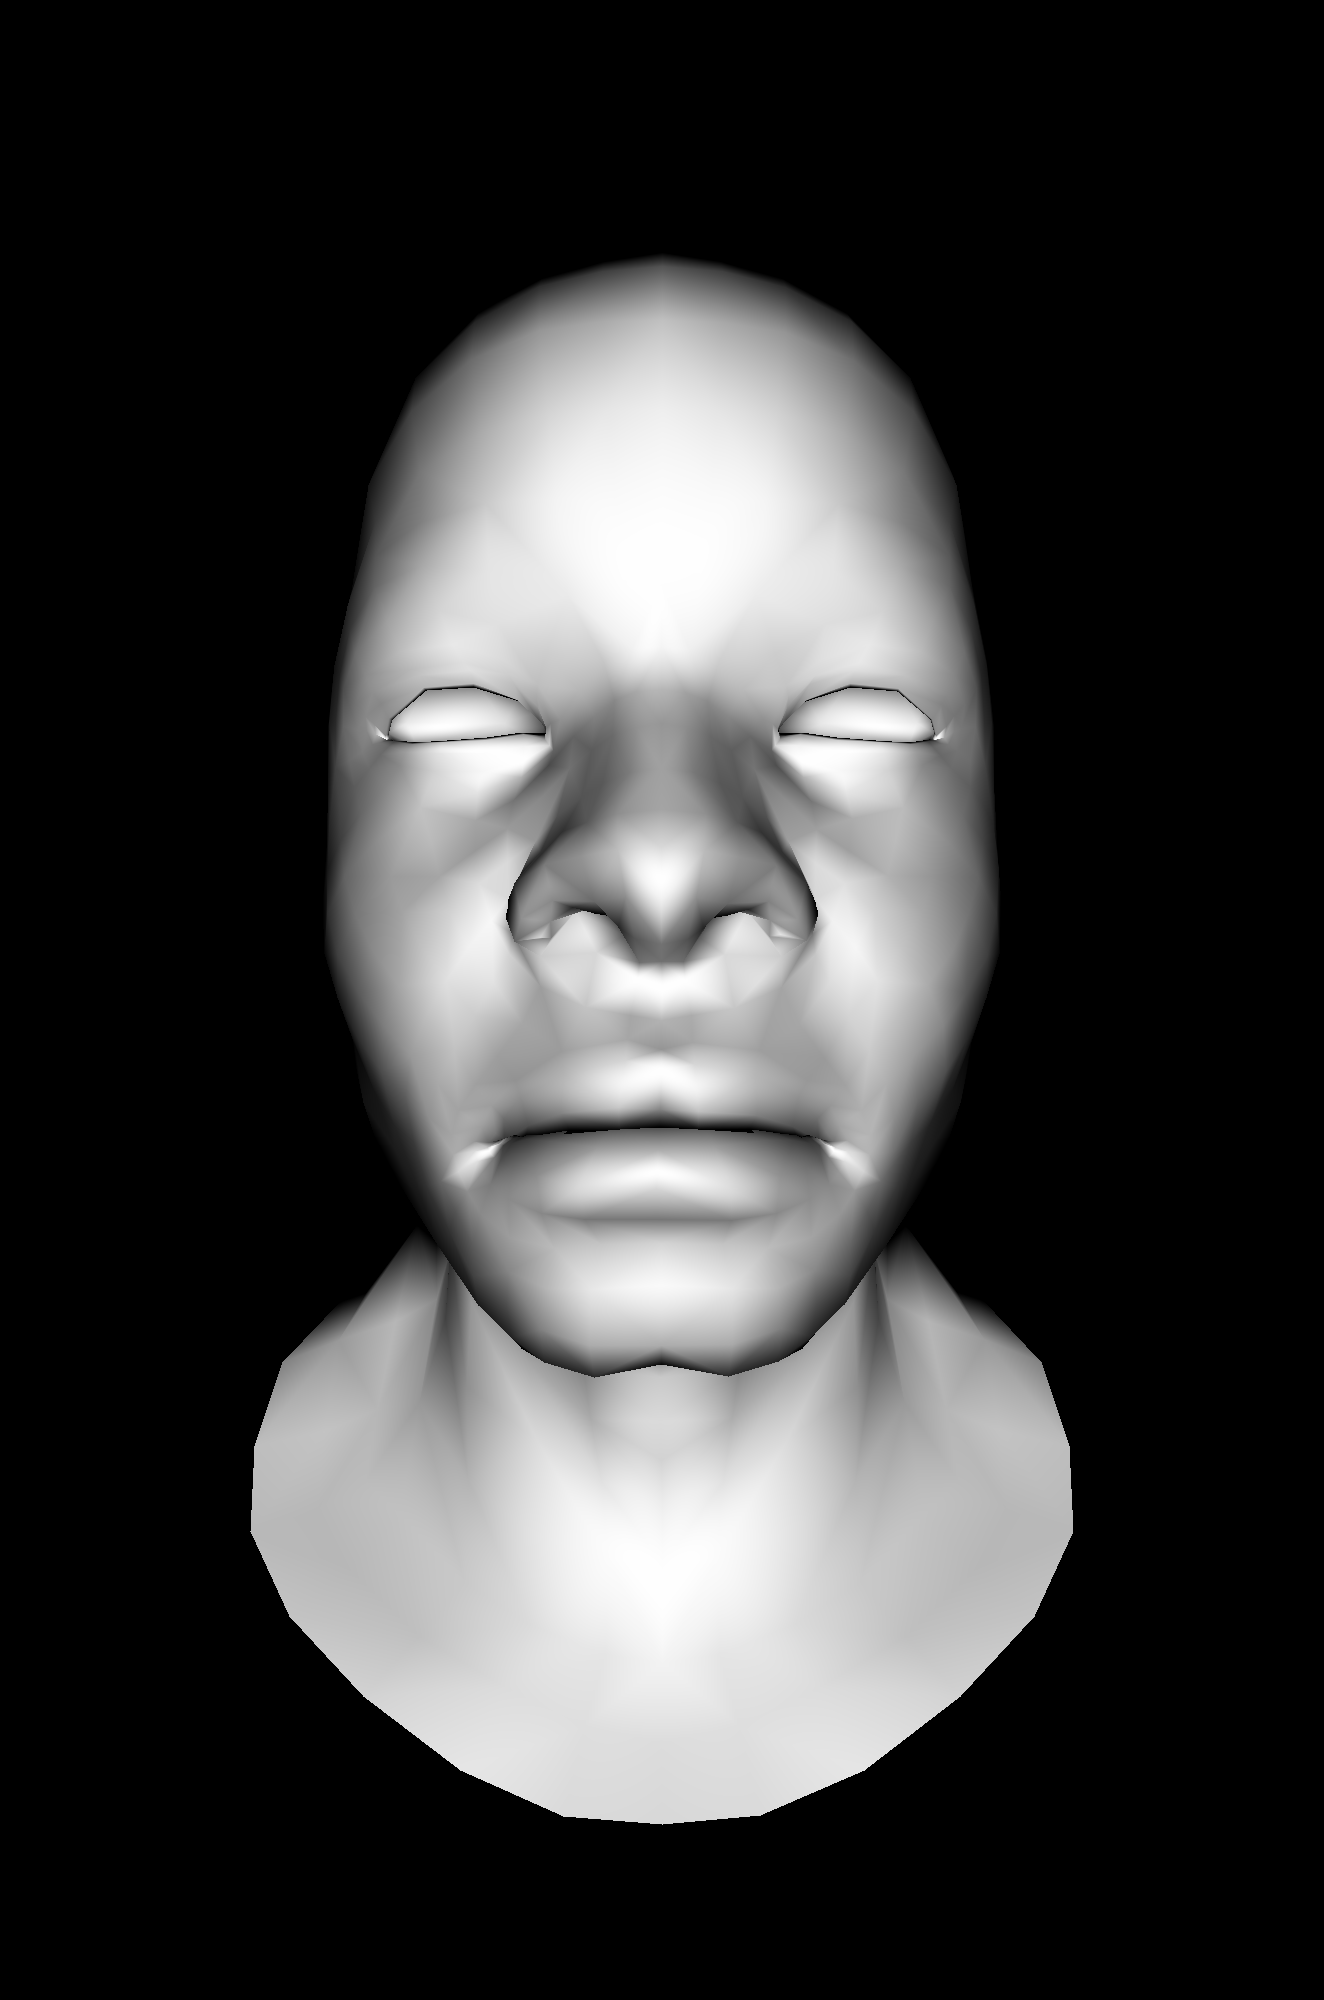
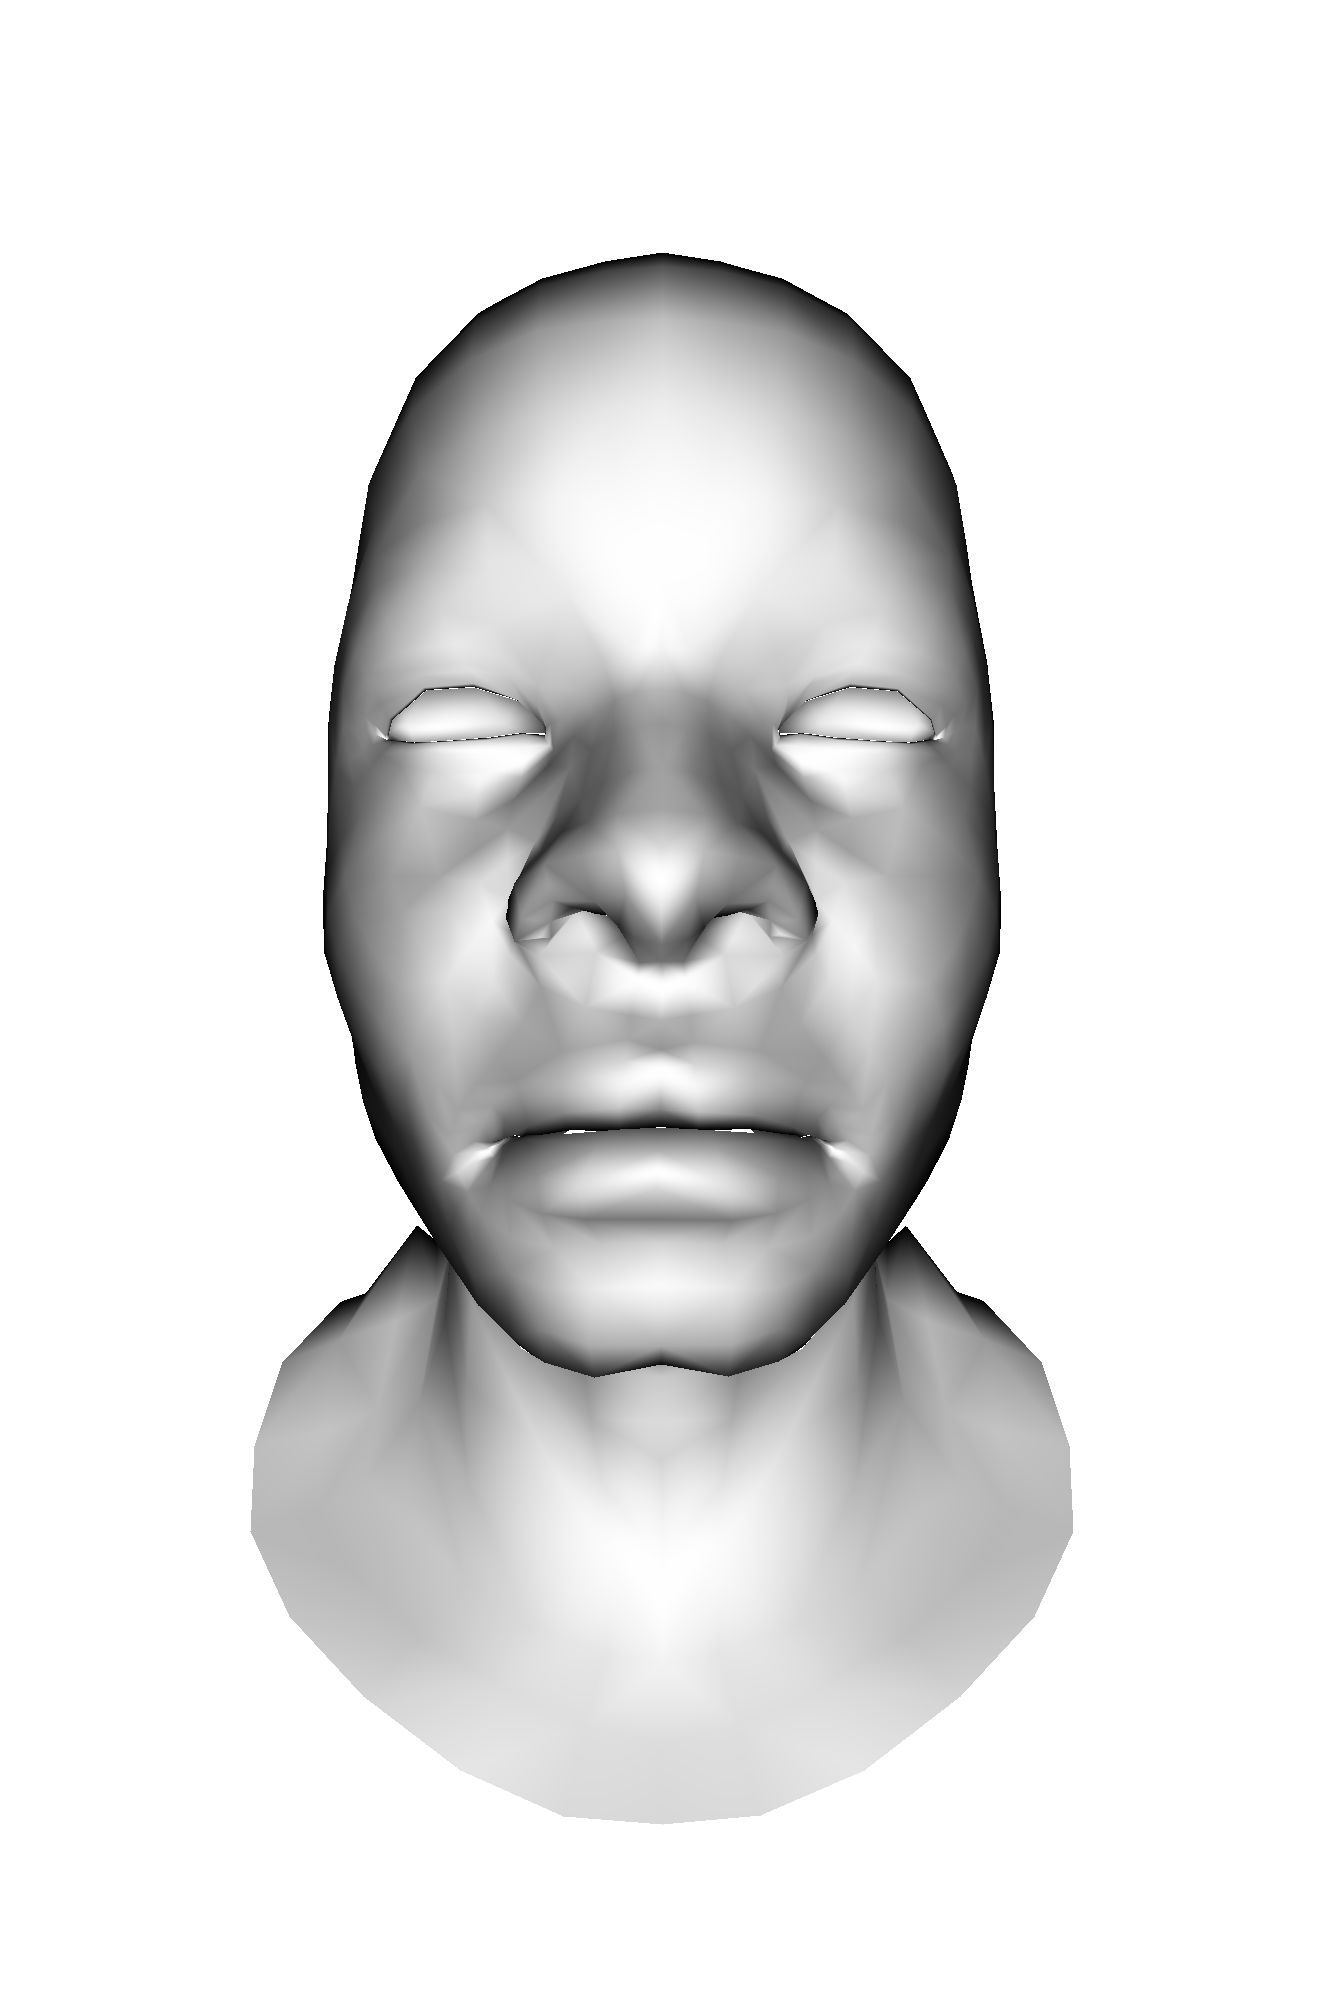
rewrite projection

diff --git a/render.go b/render.go
@@ -418,11 +418,11 @@ func main() {
 
 	// Initialize image and fill with black
 	img := image.NewRGBA(image.Rectangle{upLeft, lowRight})
-	for i:=0;i<width;i++{
-		for j:=0;j<height;j++{
-			img.Set(i, j, color.Black)
-		}
-	}
+	//for i:=0;i<width;i++{
+	//	for j:=0;j<height;j++{
+	//		img.Set(i, j, color.Black)
+	//	}
+	//}
 
 	// Render
 	//renderWireframe(&model, img, &color.RGBA{0, 0, 0, 255}, width, height, 2.0)

diff --git a/readme.md b/readme.md
@@ -10,7 +10,7 @@ This is a toy project to learn Go and rendering at the same time.
 
 |||||
 |--|--|--|--|
-|![img](results/project_5.png)|![img](results/project_2.png)|![img](results/project_1.5.png)|![img](results/project_1.png)|
+|![img](results/project_5.0.png)|![img](results/project_2.0.png)|![img](results/project_1.5.png)|![img](results/project_1.0.png)|
 ## TODO
 - Center align
 - Projections
